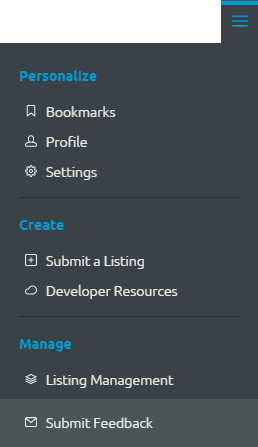
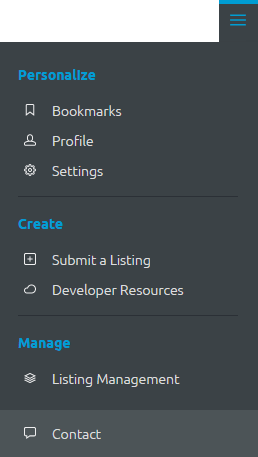
Added contact section, updated images, fixed typos.

diff --git a/src/scripts/components/articles/Center_listings_create.html b/src/scripts/components/articles/Center_listings_create.html
@@ -9,24 +9,25 @@
 
 <p>Anyone can create a listing. Only stewards can approve them. This section explains how to create a listing and it defines each field on the Create/Edit Listing Form.</p>
 
-<p><img alt="Submit a listing" src="/Doc_images/submit-a-listing.png" title="Submit a listing" /></p>
 
-<p>To create a listing, from the Global Toolbar click the drop-down Main Menu:</p>
+
+<p>To create a listing:</p>
 
 <ol>
+	<li>From the Global Toolbar, click the drop-down Main Menu.</li>
 	<li>Select <b>Submit a Listing</b></li>
 	<li>The Listing Create/Edit Form opens. To save the listing as a draft, you must enter a <b>Name, Type and Owner</b>.<br />
 	<i>At this point, you may save the listing without completing it. If you do this, you can open it from your Profile and Listing Management which are accessible from the drop-down Main Menu on the Global Toolbar.</i></li>
 	<li>Complete the listing. All fields are required unless marked optional.</li>
-	<li>Click <img alt="Save" src="/Doc_images/save.png" title="Save" /> at the top of the form to save. The save icon switches to a green checkmark after saving.</li>
-	<li>To preview the listing, click <img alt="show" src="/Doc_images/show-icon.png"   title="show" />.</li>
-	<li>When you are ready to publish the listing, click <img alt="Send the listing to a steward for review" src="/Doc_images/send-to-steward.png" title="Send the listing to a steward for review" /> to notify the Organizational Steward that the listing is ready for review. You must complete all required fields before submitting the listing.</li>
+	<li>Click <img alt="Save" src="./Doc_images/save.png" title="Save" /> at the top of the form to save. The save icon switches to a green checkmark after saving.</li>
+	<li>To preview the listing, click <img alt="show" src="./Doc_images/show-icon.png"   title="show" />.</li>
+	<li>When you are ready to publish the listing, click <img alt="Send the listing to a steward for review" src="./Doc_images/send-to-steward.png" title="Send the listing to a steward for review" /> to notify the Organizational Steward that the listing is ready for review. You must complete all required fields before submitting the listing.</li>
 	<li>After an organizational steward and Center steward approve the listing, it will appear in Center.</li>
 </ol>
 
 <h3>Submit a Listing</h3>
 
-<p>After creating a listing, a Center and Org Steward must approve it. Follow the instructions in the Create a Listing section to submit the listing. After approval by both stewards, your listing will appear in Center.</p>
+<p>After creating a listing, a Center and Org Steward must approve it. If you are a steward, you will find instructions for approving or returning a listings in the steward section of Help. After approval by both stewards, your listing will appear in Center.</p>
 
 <br /><br />
 <h2>Fields on the Create/Edit Form</h2>
@@ -36,7 +37,7 @@
 <br />
 <h3>Basic Listing Information</h3>
 
-<p><img alt="Basic Listing Information section of the Create/Edit Listing Form" src="/Doc_images/Create-Edit-Listing-Form-BasicInfo.png" title="Enter Basic Listing Information" /><br />
+<p><img alt="Basic Listing Information section of the Create/Edit Listing Form" src="./Doc_images/Create-Edit-Listing-Form-BasicInfo.png" title="Enter Basic Listing Information" /><br />
 <b>Basic Listing Information</b><br />
 <br /></p>
 
@@ -79,7 +80,7 @@
 <br />
 <h3>Listing Details</h3>
 
-<p><img alt="Create/Edit Listing Form - Listing Details" src="/Doc_images/Create-Edit-Listing-Form-ListingDetails.png" title="Create/Edit Listing Form - Listing Details" /><br />
+<p><img alt="Create/Edit Listing Form - Listing Details" src="./Doc_images/Create-Edit-Listing-Form-ListingDetails.png" title="Create/Edit Listing Form - Listing Details" /><br />
 <b>Create/Edit Listing Form - Listing Details</b><br /></p>
 
 <p>
@@ -127,7 +128,7 @@
 <br />
 <h3>Resources</h3>
 
-<p><img alt="Create Edit Listing Form Resources" src="/Doc_images/Create-Edit-Listing-Form-Resources.png" title="Create Edit Listing Form Resources" /></p>
+<p><img alt="Create Edit Listing Form Resources" src="./Doc_images/Create-Edit-Listing-Form-Resources.png" title="Create Edit Listing Form Resources" /></p>
 
 <p><b>Create/Edit Listing Form - Resources</b></p>
 
@@ -144,13 +145,13 @@
 <br />
 <h3>Graphics</h3>
 
-<p><img alt="Create Edit Listing Form -- Graphics Section" src="/Doc_images/Create-Edit-Listing-Form-Graphics.png" title="Create Edit Listing Form -- Graphics Section" /></p>
+<p><img alt="Create Edit Listing Form -- Graphics Section" src="./Doc_images/Create-Edit-Listing-Form-Graphics.png" title="Create Edit Listing Form -- Graphics Section" /></p>
 
 <p><b>Create/Edit Listing Form: Graphics</b></p>
 
 <p>The following figure displays the large and small banner icons on the Search and Discovery Page:<br />
 <br />
-<img alt="Large and Small Banner Image Examples" src="/Doc_images/lg-sm-banner-image.png" title="Large and Small Banner Image Examples" /><br />
+<img alt="Large and Small Banner Image Examples" src="./Doc_images/lg-sm-banner-image.png" title="Large and Small Banner Image Examples" /><br />
 <b>Large and Small Banner Image Examples</b></p>
 
 <p>
@@ -177,12 +178,12 @@
 <p>
 <b>Screenshots</b>
 <br />Houses the images that appear in the Overview tab on the listing's Detailed View.
-<br /><i>You can add infinite screenshots. The system asks for a:
+<br />You can add infinite screenshots. The system asks for a:
 	<ul>
 		<li>Preview Image<br />
 		<i>Appears on the Overview tab</i></li>
 		<li>Full Size Image<br />
-		<i>Opens outside the Overview tab after a user clicks the Preview Image</i></li>
+		<i>Opens outside the Overview tab after a user clicks the Preview Image</li>
 	</ul>
 	</i>
 </p>
@@ -192,7 +193,7 @@
 
 <p>The next section of the Create/Edit Form addresses owners and contacts. This establishes who is responsible for the listing, who can see it in Center and who should be contacted regarding it:</p>
 
-<p><img alt="Create/Edit Listing Form: Owners & Contacts Section" src="/Doc_images/Create-Edit-Listing-Form-Owner-Contact-Section.png" title="Create/Edit Listing Form: Owners & Contacts Section" /><br />
+<p><img alt="Create/Edit Listing Form: Owners & Contacts Section" src="./Doc_images/Create-Edit-Listing-Form-Owner-Contact-Section.png" title="Create/Edit Listing Form: Owners & Contacts Section" /><br />
 <b>Create/Edit Listing Form: Owners & Contacts Section</b></p>
 
 <p>

diff --git a/src/scripts/components/articles/Center_overview.html b/src/scripts/components/articles/Center_overview.html
@@ -11,4 +11,4 @@
 
 <p><img alt="Search and Discovery Page" src="Doc_images/center-search-and-discovery-page.png" title="Search and Discovery Page" /></p>
 
-<p>When you enter OZONE, the first thing you'll see is the Marketplace Search and Discovery Page. It displays Featured, New Arrivals and the Most Popular listings. Use the categories on the left to reduce the number of listings you see on the page. You can also filter by Listing Type and Organization using the drop-downs at the top of the page. Search for a listing from the search box located at the top-right of the page. Results will be returned based on listing name, description, tags, etc. You'll find a complete description of listings and search in the following related sections.</p>
+<p>When you enter OZONE, the first thing you'll see is the Marketplace Search and Discovery Page. It displays Featured, New Arrivals and the Most Popular listings. Use the categories on the left to reduce the number of listings you see on the page. You can also filter by Listing Type and Organization using the drop-downs at the top of the page. Search for a listing from the search box located at the top-right of the page. Results will be returned based on listing name, description, tags, etc. You'll find a complete description of listings and search in their corresponding help sections.</p>

diff --git a/src/scripts/components/articles/GlobalToolbar_overview.html b/src/scripts/components/articles/GlobalToolbar_overview.html
@@ -22,7 +22,7 @@
   part: 'global',
   article: 'HUD_overview',
   title: 'Understanding HUD'
-}}>HUD</Link> (Heads up display) where your bookmarks are stored. Think of HUD like the home screen on a smart phone.</li>
+}}>HUD</Link> (Heads up display) where your bookmarks are stored. Think of HUD like the home screen on a smartphone.</li>
 
 	<li><img alt="Center" src="Doc_images/center_icon.png"  /> Opens <Link to="article" params={{
   part: 'global',
@@ -34,13 +34,13 @@
   part: 'global',
   article: 'Webtop_overview',
   title: 'Understanding Webtop'
-}}>Webtop</Link> your customizable workspace within OZONE.</li>
+}}>Webtop</Link>, your customizable workspace within OZONE.</li>
 
 	<li><img alt="Notifications" src="Doc_images/Notifications_icon.png"  /> <Link to="article" params={{
   part: 'global',
   article: 'GlobalToolbar_notifications',
   title: 'Receive and Dismiss Notifications'
-}}>Notifications</Link> - If you have a notification the icon will change colors and a line will display above it.</li>
+}}>Notifications</Link> - If you have a notification the icon will change color and a line will display above it.</li>
 
 	<li><img alt="Help" src="Doc_images/Help_content_icon.png"  /> Help - Links to system Help resources.</li>
 

diff --git a/src/scripts/components/articles/Center_steward_overview.html b/src/scripts/components/articles/Center_steward_overview.html
@@ -22,7 +22,7 @@
   part: 'global',
   article: 'Center_listingManagementPage_orgSteward',
   title: 'Manage Listings as an Org Steward'
-}}><b>Organizational steward</b></Link> - Every organization has at least one organizational content steward or <i>org steward.</i> The org steward must approve listings before sending them to a Center steward for final approval. Org stewards can approve listings or send them back to their owners for updates. Also, they can enable/disable listing and edit or delete reviews for their organization.</p>
+}}><b>Organizational steward</b></Link> - Every organization has at least one organizational content steward or <i>org steward.</i> The org steward must approve listings before sending them to a Center steward for final approval. Org stewards can approve listings or send them back to their owners for updates. Also, they can enable/disable listings and edit or delete reviews for their organization.</p>
 
 <p><Link to="article" params={{
   part: 'global',

diff --git a/src/scripts/components/articles/GlobalToolbar_mainMenu.html b/src/scripts/components/articles/GlobalToolbar_mainMenu.html
@@ -52,6 +52,13 @@
   title: 'Manage your Created Listings'
 }}>Manage your Created Listings</Link> for more information.</p>
 
-<h3>Submit Feedback</h3>
+<h3>Contact</h3>
 
-<p>Select <b>Submit Feedback</b> to contact someone for IT support.</p>
+<p>Contact opens a portal to several feedback and help resources.</p>
+<p><img alt="Contact Window" src="Doc_images/ContactPortal.png"/></p>
+<ul>
+	<li><b>Contact Help Desk</b> your administrator will configure this setting to open an email to your IT support team or send you directly to a form to request IT support.</li>
+	<li><b>Submit a Request</b> allows you to suggest new features.</li>
+	<li><b>Give Feedback</b> your administrator will configure this setting to open an email or contact form that sends your message to the people whom gather requirements about the system. If it is not configured, contact your org steward.</li>
+	<li><b>Connect With Us</b> links to popular social media feeds about OZONE.</li>
+</ul>

diff --git a/src/scripts/components/articles/Center_listings_approveReject_orgSteward.html b/src/scripts/components/articles/Center_listings_approveReject_orgSteward.html
@@ -11,7 +11,7 @@
 	<li>On the left-side, click Approve or Return to Owner:<br />
 	<img alt="Approve or Return the Listing" src="Doc_images/AdminTab_Approve_Reject.png" title="Listing Management Page" />
 	<ul>
-		<li>If you approve the listing, it moves into the Center steward's queue and you're done. After the Center steward approves the listing, the owner or Center steward can enable or disable it.</li>
+		<li>If you approve the listing, it moves into the Center steward's queue and you're done. After the Center steward approves the listing, the owner, an org steward or the Center steward can enable or disable it.</li>
 		<li>If you click Return to Owner, type instructions explaining how the user should update the listing before submitting it. Then, click Return to Owner. The listing will move out of your queue until the owner resubmits it.</li>
 	</ul>
 	</li>

diff --git a/src/scripts/components/articles/Center_listingManagementPage_orgSteward.html b/src/scripts/components/articles/Center_listingManagementPage_orgSteward.html
@@ -8,7 +8,7 @@
   part: 'global',
   article: 'Center_listingManagementPage_user',
   title: 'Manage your Created Listings'
-}}>Manage your Created Listings</Link>.</p>
+}}>Manage your Listings</Link>.</p>
 
 <p><b><img border="0" src="Doc_images/orgSteward_managementTabs.png" alt="Steward Management Tabs"/></b></p>
 
@@ -36,7 +36,7 @@
 }}>Approve or Return Listings</Link>.</li>
 	<li><b>(Pending) Org approved</b> - Listings waiting for Center steward approval</li>
 	<li><b>Returned</b> - Listings returned to their owners</li>
-	<li>Draft - Listings in the system that have not been submitted for approval</li>
+	<li><b>Draft</b> - Listings in the system that have not been submitted for approval</li>
 </ul>
 
 <p><b>Enabled</b></p>

diff --git a/src/scripts/components/articles/Center_steward_settings_steward.html b/src/scripts/components/articles/Center_steward_settings_steward.html
@@ -12,7 +12,7 @@
 	<li>Click <img alt="Main Menu" src="Doc_images/Main_menu_icon.png"  /> on the right-side of the Global Toolbar.</li>
 	<li>Select Center Settings<br />
 	<img alt="Center Settings Link on Main Menu" src="Doc_images/centerSettingsLink_MainMenu.png"  title="Center Settings Link on Main Menu" /></li>
-	<li>The Center Settings page will open to the Categories tab, click the stewards tab.</li>
+	<li>The Center Settings page will open to the Categories tab, click the Stewards tab.</li>
 </ol>
 
 

diff --git a/src/scripts/components/articles/Center_listingManagementPage_user.html b/src/scripts/components/articles/Center_listingManagementPage_user.html
@@ -1,4 +1,4 @@
-<h1>Manage your Created Listings</h1>
+<h1>Manage your Listings</h1>
 
 <p>The Listing Management Page tells users where their listings are in the approval process. To access this page, click the drop-down Main Menu on the right side of the Global Toolbar and select Listing Management:</p>
 
